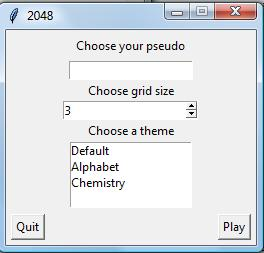
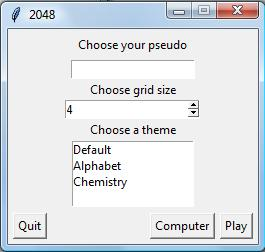
R.4.1

diff --git a/textual_2048.py b/textual_2048.py
@@ -1,8 +1,9 @@
 from game_2048 import *
-import sys
+import time
 from os import remove
+from ai_2048 import *
 
-COMMANDS = {"U": "up", "L": "left", "R": "right", "D": "down", "S": "save", "B": "back"}
+COMMANDS = {"U": "up", "L": "left", "R": "right", "D": "down", "S": "save", "B": "back", "H": "hint"}
 
 def read_next_move():
     """
@@ -10,9 +11,9 @@ def read_next_move():
 
     valeur renvoyée: (str) la direction à suivre pour grid_move()
     """
-    move =  input('Your Move ? ((U)p, (D)own, (L)eft, (R)ight, (S)ave, (B)ack) ').upper()
+    move =  input('Your Move ? ((U)p, (D)own, (L)eft, (R)ight, (S)ave, (B)ack, (H)int) ').upper()
     while move not in COMMANDS:
-        move = input('Your Move ? ((U)p, (D)own, (L)eft, (R)ight, (S)ave, (B)ack) ').upper()
+        move = input('Your Move ? ((U)p, (D)own, (L)eft, (R)ight, (S)ave, (B)ack, (H)int) ').upper()
     return move
 
 def read_gridsize():
@@ -36,22 +37,51 @@ def read_theme():
     while theme not in THEMES:
         theme = input('What grid theme do you want? ((0)Default, (1)Chemistry, (2)Alphabet) ')
     return theme
-    
+
+def autoplay():
+    """
+    Lancement de la partie avec l'ordinateur qui joue à la place du joueur
+    """
+    n = read_gridsize()
+    theme = THEMES[read_theme()]
+    grid = grid_init(n)
+    while not is_grid_over(grid) or True in move_possible(grid):
+        # Evaluation de la grille
+        move, evaluation = grid_max(grid)
+        # Application de l'evaluation
+        grid = grid_move(grid, move)
+        # Ajout d'une nouvelle tuile
+        grid_add_new_tile(grid)
+        # Affichage de la grille et du mouvement effectue
+        print(move)
+        grid_print(grid, n, theme)
+        # Pause de 700ms
+        time.sleep(0.7)
+    if grid_get_max_value(grid) >= 2048:
+        print("Computer won !")
+    else:
+        print("Computer lose !")
+    print("Score is "+str(grid_score(grid)))
+    print("Please restart the program to play a new game")
 
 def play():
+    """
+    Lancement de la partie
+    """
     last_grid = None
     undo = 2
-    game = input('Do you want to create a new game or load a game? ((L)oad, (N)ew, (V)iew Leaderboard) ').upper()
-    commande_new = ['N', 'L', 'V']
+    hint = 2
+    game = input('Do you want to create a new game or load a game? ((L)oad, (N)ew, (V)iew Leaderboard, (C)omputer play) ').upper()
+    commande_new = ['N', 'L', 'V', 'C']
     while game not in commande_new:
-        game = input('Do you want to create a new game or load a game? ((L)oad, (N)ew, (V)iew Leaderboard) ').upper()
+        game = input('Do you want to create a new game or load a game? ((L)oad, (N)ew, (V)iew Leaderboard, (C)omputer play) ').upper()
     # Affichage du classement
     while game == 'V':
         liste = get_leaderboard("leaderboard")
         print("Leaderboard:")
         for score, name, size in liste:
             print(name+" - Score "+str(score)+" - Grille "+str(size)+"x"+str(size))
-        game = input('Do you want to create a new game or load a game? ((L)oad, (N)ew, (V)iew Leaderboard) ').upper()
+        game = input('Do you want to create a new game or load a game? ((L)oad, (N)ew, (V)iew Leaderboard, (C)omputer play) ').upper()
     # Nouvelle partie
     if game == 'N':
         number = read_gridsize()
@@ -62,14 +92,17 @@ def play():
         try:
             grid = grid_load("save")
             number = len(grid)
-            theme = ALL_THEMES[read_theme()]
-            print("Your save was successfully load")
+            theme = THEMES[read_theme()]
+            print("Your game was successfully load")
             remove("save")
         except FileNotFoundError:
             print("Oops! There is no save file, a new game will start")
             number = read_gridsize()
             theme = THEMES[read_theme()]
             grid = grid_init(number)
+    elif game == "C":
+        autoplay()
+        exit(1)
     pseudo = input("What is your pseudo ? ")
     grid_print(grid, number, theme)
     # Arrêt si la grille est pleine ou aucun mouvement possible
@@ -80,7 +113,7 @@ def play():
         if move == "S":
             grid_save(grid,"save")
             print("Save done")
-            sys.exit(1)
+            exit(1)
         # Retour arrière
         elif move == "B":
             if last_grid is not None and last_grid != grid:
@@ -89,10 +122,18 @@ def play():
                     grid = last_grid
                     print("Success. "+str(undo)+" undo left")
                 else:
-                    print("You spent all your undo")
+                    print("No more undo available")
             else:
                 print("There is no move to replace")
             grid_print(grid, number, theme)
+            continue
+        elif move == "H":
+            if hint > 0:
+                best_move, evaluation = grid_max(grid)
+                hint -= 1
+                print("The best move is "+best_move+". "+str(hint)+" hint left")
+            else:
+                print("No more hint available")
             continue
         new_grid  = grid_move(grid, COMMANDS[move])
         # Pas de déplacement dans la direction d donc on demande une autre direction

diff --git a/graphical_2048.py b/graphical_2048.py
@@ -3,7 +3,7 @@ from tkinter.messagebox import *
 from game_2048 import *
 from os.path import *
 from os import remove
-from ia_2048 import *
+from ai_2048 import *
 
 grid = None
 gr_grid = []
@@ -336,16 +336,21 @@ def autoplay():
             gr_line.append(t)
         gr_grid.append(gr_line)
     grid_display(grid)
-    game.geometry(get_center_position(game, game.winfo_width(), game.winfo_height()))
     while not is_grid_over(grid) or True in move_possible(grid):
         # Evaluation de la grille
         move, evaluation = grid_max(grid)
         # Déplacement selon l'evaluation
+        print(move)
         grid = grid_move(grid, move)
         # Ajout d'une nouvelle tuile
         grid_add_new_tile(grid)
         # Pause de 500ms puis refresh de l'interface
         game.after(500, grid_display(grid))
+    if grid_get_max_value(grid) >= 2048:
+        showinfo("2048", "Computer won !")
+    else:
+        showinfo("2048", "Computer lose !")
+    game.geometry(get_center_position(game, game.winfo_width(), game.winfo_height()))
     game.mainloop()
         
 # Creation du menu

diff --git a/ai_2048.py b/ai_2048.py
@@ -16,7 +16,7 @@ def grid_evaluate(grid):
     # Horizontal
     for y in range(len(grid)):
         x = 0
-    return regularity + score + max_tile + 50 * number_empty_tiles
+    return regularity + score + max_tile + 32 * number_empty_tiles
 
 def grid_max(grid):
     """
@@ -25,13 +25,14 @@ def grid_max(grid):
     paramètre grid: (list) la grille sous forme de liste
     valeur renvoyée: (tuple) un couple (direction, point) indiquant le meilleur mouvement
     """
-    score = 0
-    best = None
+    best_score = 0
+    best_move = None
     for move in DIRECTIONS.keys():
-        new_grid = grid_move(grid.copy(), move)
+        new_grid = grid_move(grid, move)
         if new_grid == grid:
             continue
-        new_score = grid_evaluate(new_grid)
-        if new_score > score:
-            score, best = new_score, move
-    return (move, score)
+        else:
+            new_score = grid_evaluate(new_grid)
+        if new_score > best_score:
+            best_score, best_move = new_score, move
+    return (best_move, best_score)

diff --git a/README.md b/README.md
@@ -1,7 +1,7 @@
 # 2048
 
 ![Build](https://img.shields.io/badge/build-passing-green.svg)
-![Release](https://img.shields.io/badge/release-v4.0-orange.svg)
+![Release](https://img.shields.io/badge/release-v4.1-orange.svg)
 ![Python](https://img.shields.io/badge/python-3.X-blue.svg)
 
 ## Introduction
@@ -20,7 +20,8 @@ To play with this version, execute `textual_2048.py` file in Idle
 - [x] Leaderboard
 - [x] Different grid size
 - [x] Undo action
-- [ ] Computer play
+- [x] Hint
+- [x] Computer play
 
 ![Textual version](img/textual/menu.jpg)
 
@@ -35,6 +36,7 @@ Graphical version use tkinter library, to play with this version, execute `graph
 - [x] Leaderboard
 - [x] Different grid size
 - [x] Undo action
+- [x] Hint
 - [x] Computer play
 
 ![Graphical version](img/graphic/menu.jpg)
